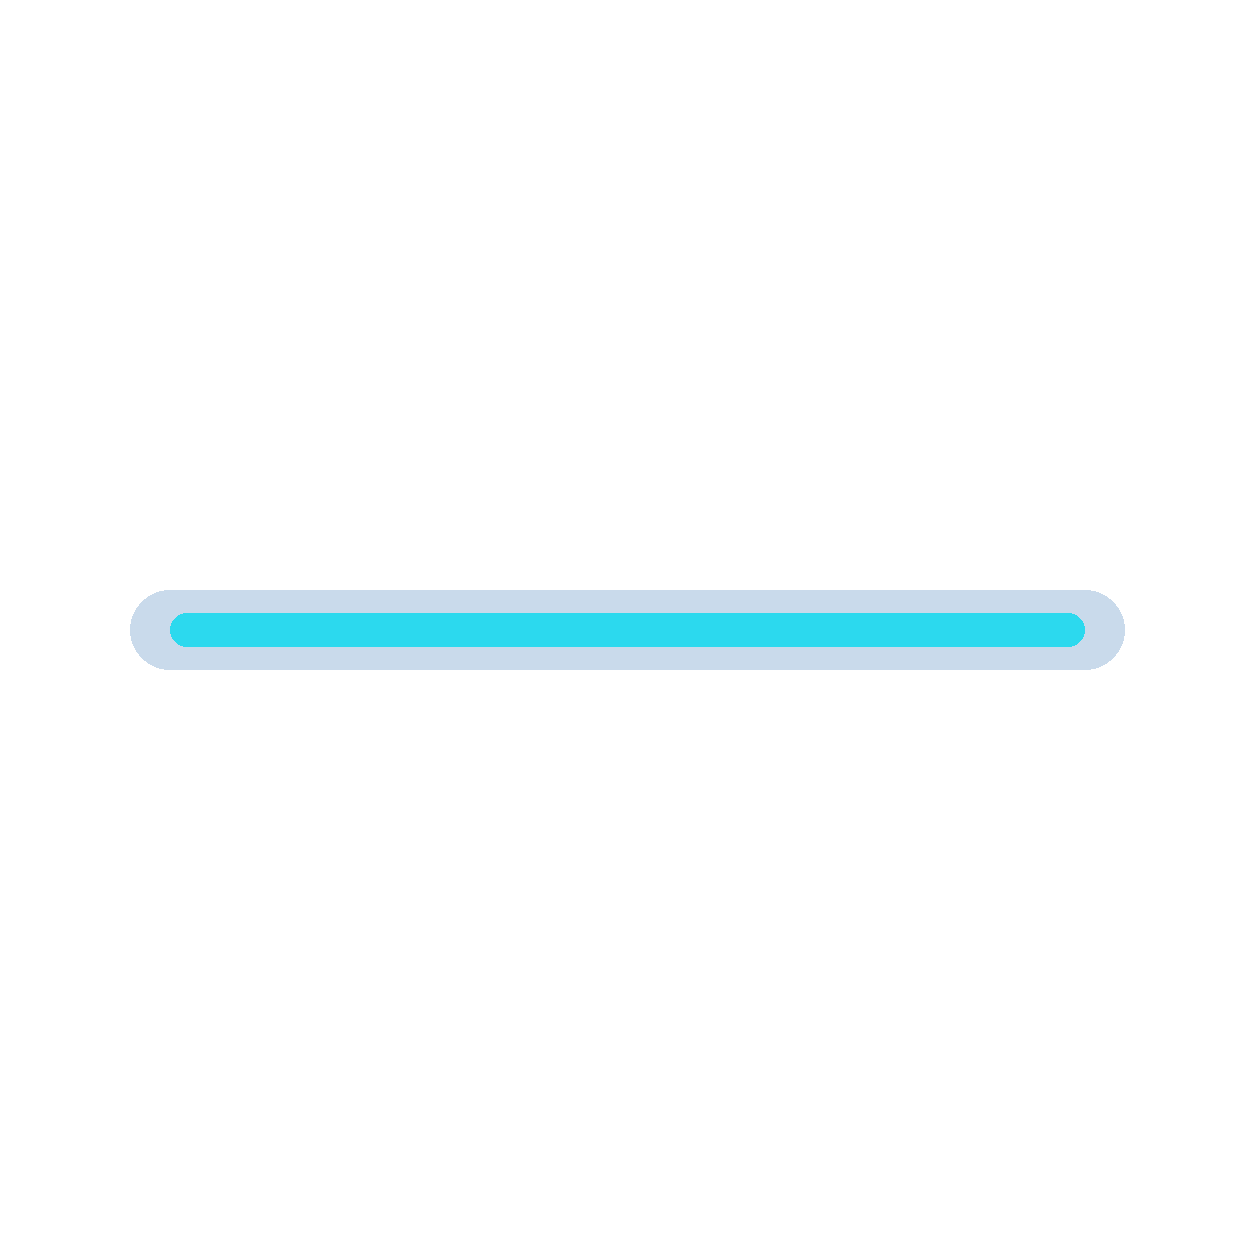
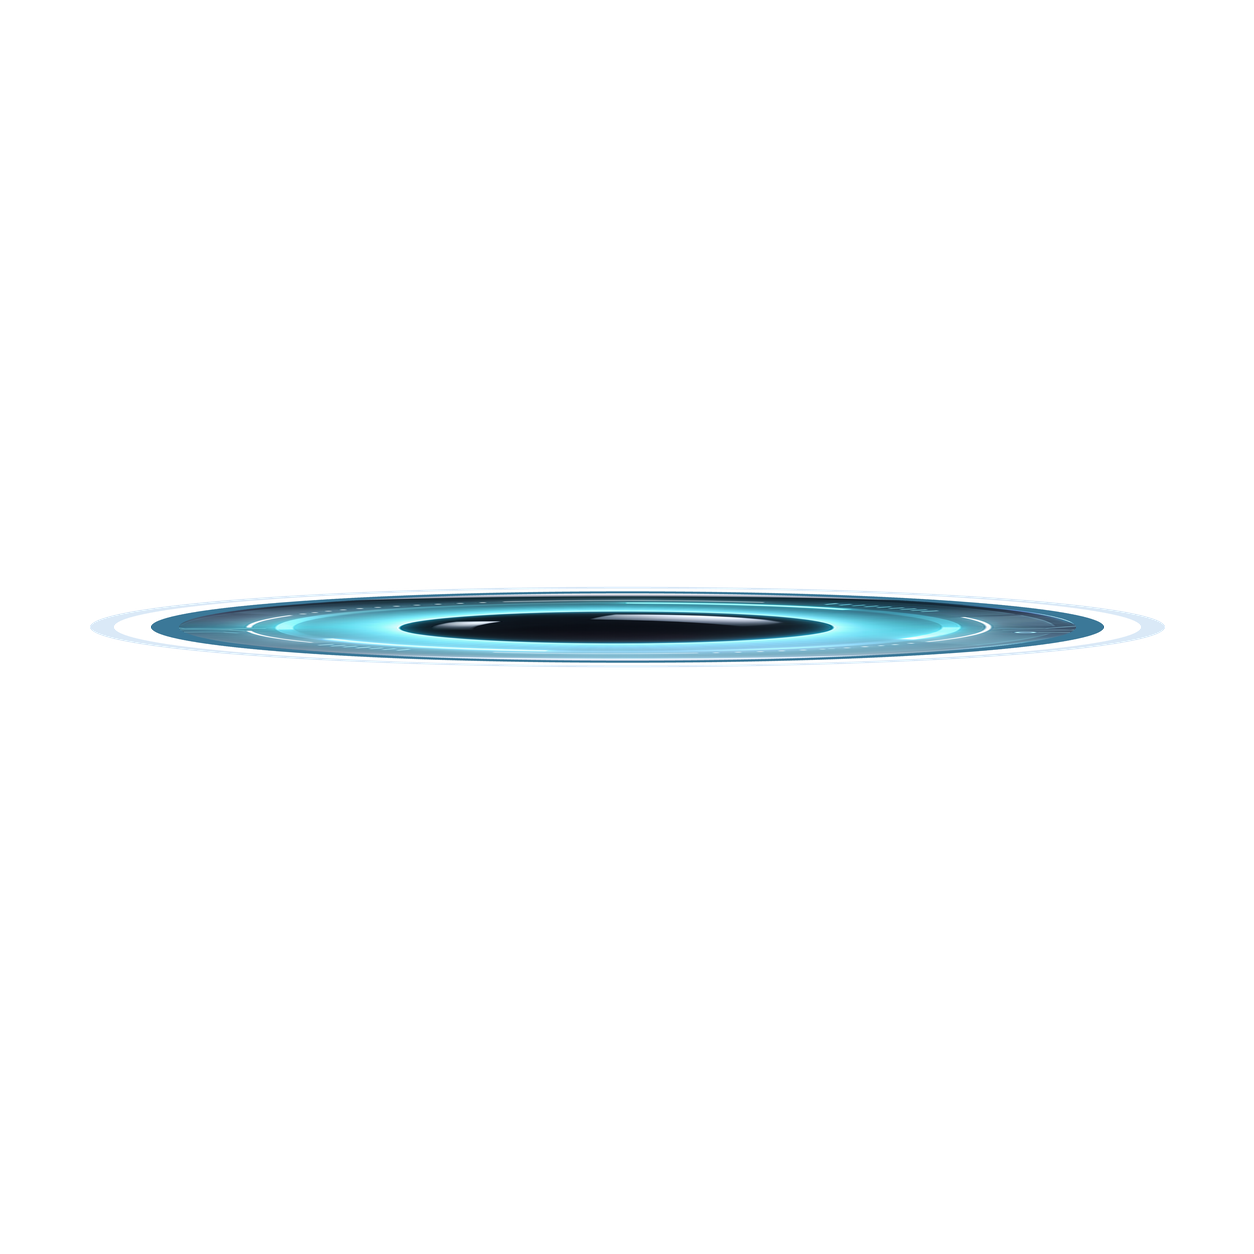
Match closed-eye state to existing Sentient artwork (v1.0.1) (#1)

Changed region(s): [[0.0622, 0.4665, 0.933, 0.5598]]

diff --git a/README.md b/README.md
@@ -1,9 +1,9 @@
 # NOVA Sentient Orb
 
-A stock-inspired futuristic cyan AI eye for Jibo/BEacon.
+A custom futuristic cyan AI eye for Jibo/BEacon.
 
 Author: Matt87c. Community theme; not an official 5x1 release.
 
-Version: 1.0.0. This is a candidate pending Jibo hardware acceptance.
+Version: 1.0.1. This is a candidate pending Jibo hardware acceptance.
 
 Install the ZIP through BEacon Store > Themes > Upload Theme ZIP.

diff --git a/CHANGELOG.md b/CHANGELOG.md
@@ -1,3 +1,8 @@
+## 1.0.1 - Consistent custom blink
+- Closed eye derives entirely from this theme's existing eye.png.
+- Original idle/listening artwork and configuration are unchanged.
+- Hardware testing pending.
+
 # Changelog
 
 ## 1.0.0 - 2026-11-02
